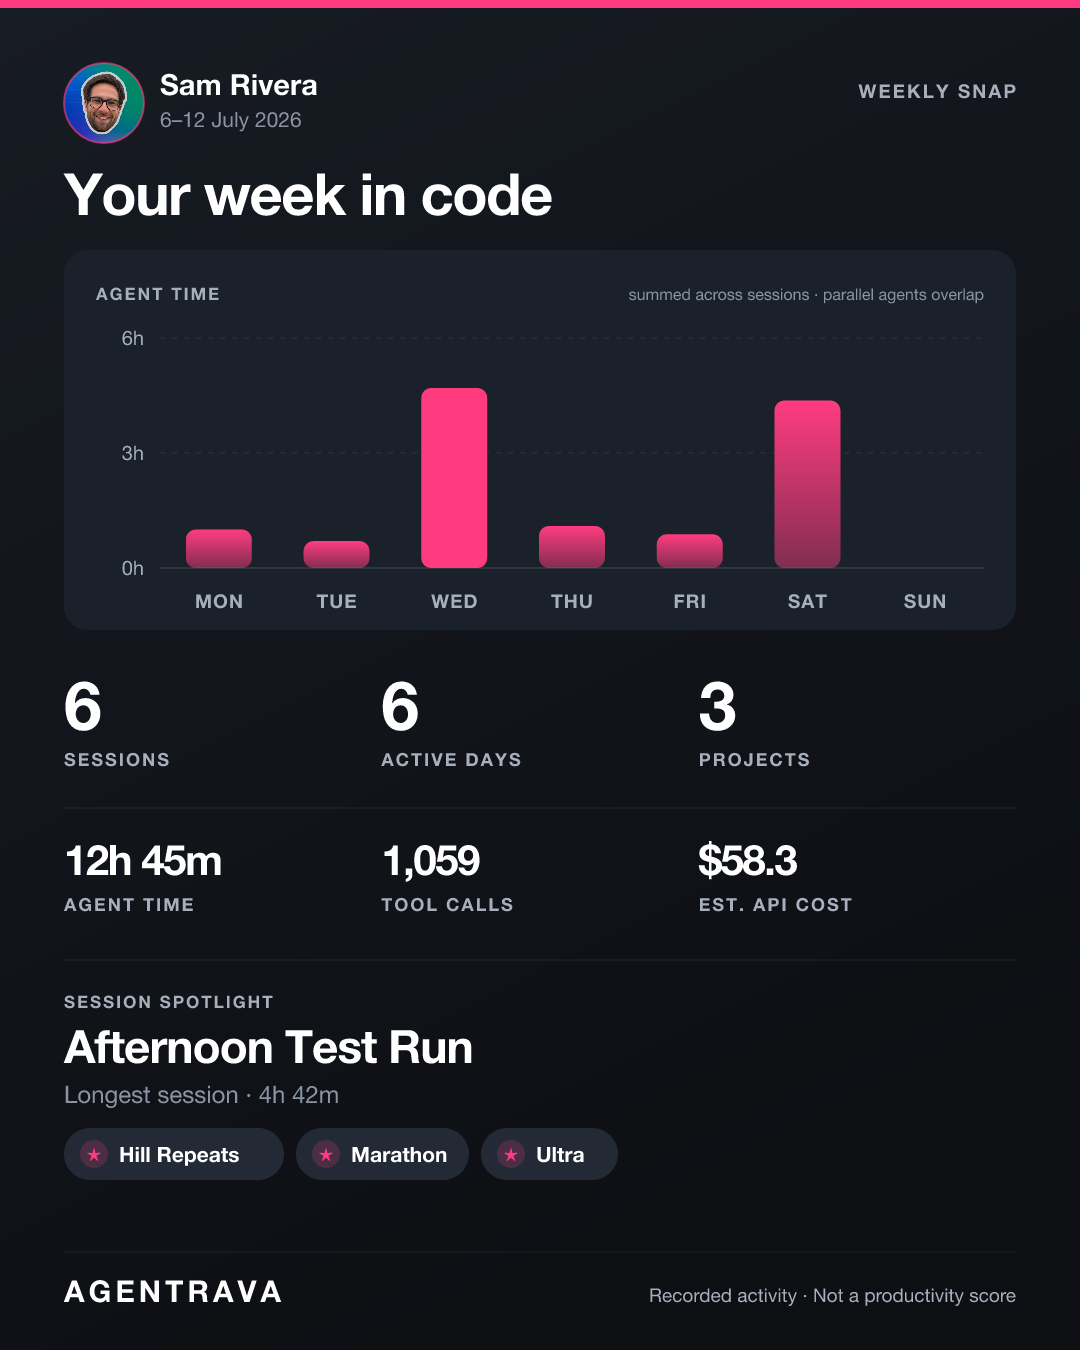
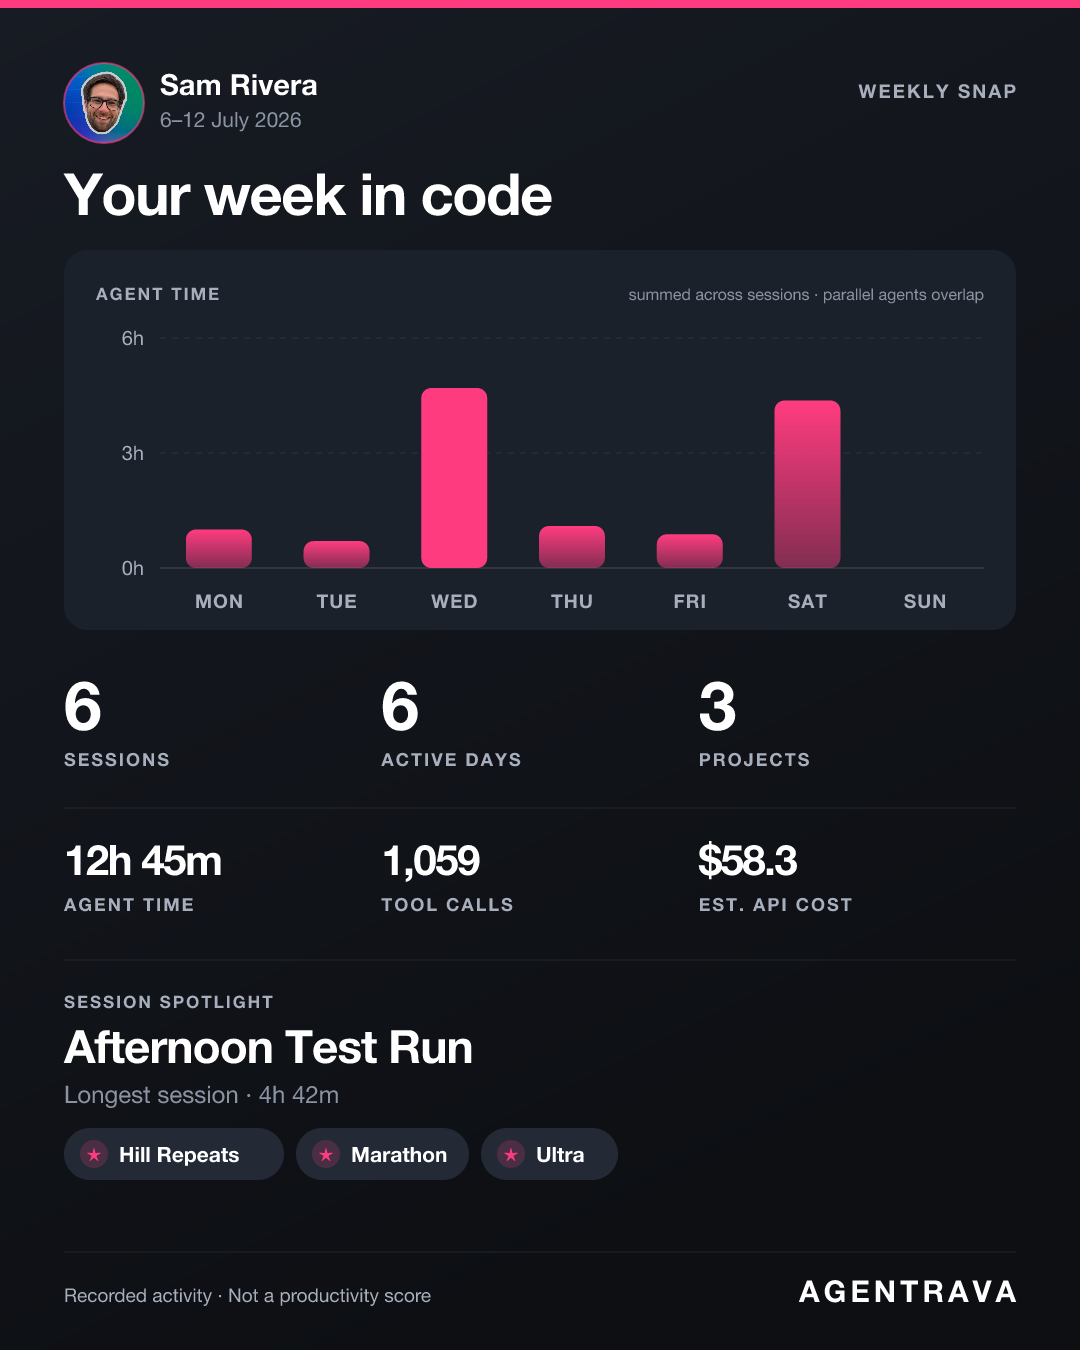
Move the wordmark to the bottom right
Swaps both footer sides: AGENTRAVA sits right, and the descriptive line sits
left — "Recorded activity · Not a productivity score" on snaps, the diff
summary on session cards. Reads better left-to-right: what the card is, then
whose it is.

The recap keeps its wordmark top-left, where it works as the title rather than
a sign-off.

Changed region(s): [[0.6111, 0.9333, 0.9472, 0.9644], [0.0611, 0.9333, 0.3972, 0.9644]]

diff --git a/src/snap.js b/src/snap.js
@@ -32,8 +32,8 @@ function frame(inner, { athlete, sub, kind, partial }) {
   ${partial ? `<text x="${W - P}" y="127" fill="${ACCENT}" font-size="18" font-weight="700" letter-spacing="1.5" text-anchor="end">${partial}</text>` : ''}
   ${inner}
   <line x1="${P}" y1="1252" x2="${W - P}" y2="1252" stroke="#ffffff" stroke-opacity="0.08"/>
-  <text x="${P}" y="1302" fill="${C.ink}" font-size="30" font-weight="700" letter-spacing="4">AGENTRAVA</text>
-  <text x="${W - P}" y="1302" fill="${C.label}" font-size="19" text-anchor="end">Recorded activity · Not a productivity score</text>
+  <text x="${P}" y="1302" fill="${C.label}" font-size="19">Recorded activity · Not a productivity score</text>
+  <text x="${W - P}" y="1302" fill="${C.ink}" font-size="30" font-weight="700" letter-spacing="4" text-anchor="end">AGENTRAVA</text>
 </svg>`;
 }
 

diff --git a/src/card.js b/src/card.js
@@ -324,8 +324,8 @@ export function renderCard(a, { badges = [], prs = [], streak = 0, photo = null 
 
   <!-- footer -->
   <line x1="${P}" y1="1252" x2="${W - P}" y2="1252" stroke="#ffffff" stroke-opacity="0.08"/>
-  <text x="${P}" y="1302" fill="${C.ink}" font-size="30" font-weight="700" letter-spacing="4">AGENTRAVA</text>
-  <text x="${W - P}" y="1302" fill="${C.label}" font-size="22" text-anchor="end">${esc(fit(footerLine(a),
+  <text x="${W - P}" y="1302" fill="${C.ink}" font-size="30" font-weight="700" letter-spacing="4" text-anchor="end">AGENTRAVA</text>
+  <text x="${P}" y="1302" fill="${C.label}" font-size="22">${esc(fit(footerLine(a),
     // Clamp to the space left of the AGENTRAVA wordmark, or the two collide.
     22, W - 2 * P - 268))}</text>
 </svg>`;
